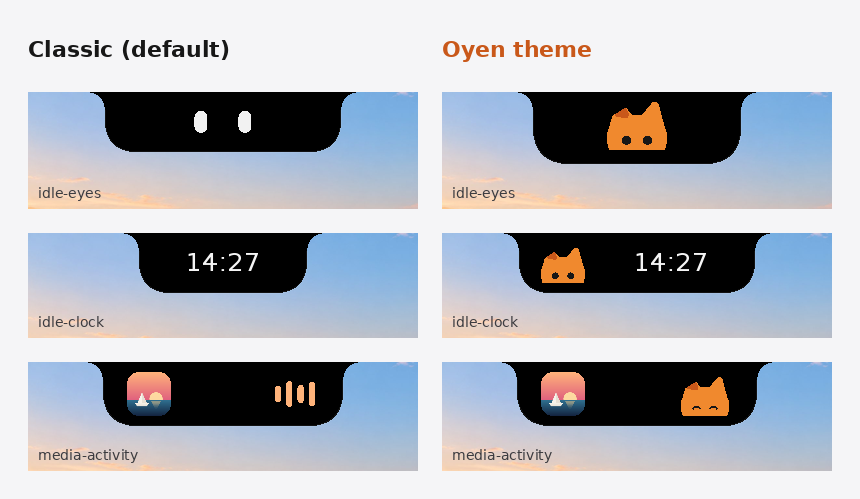
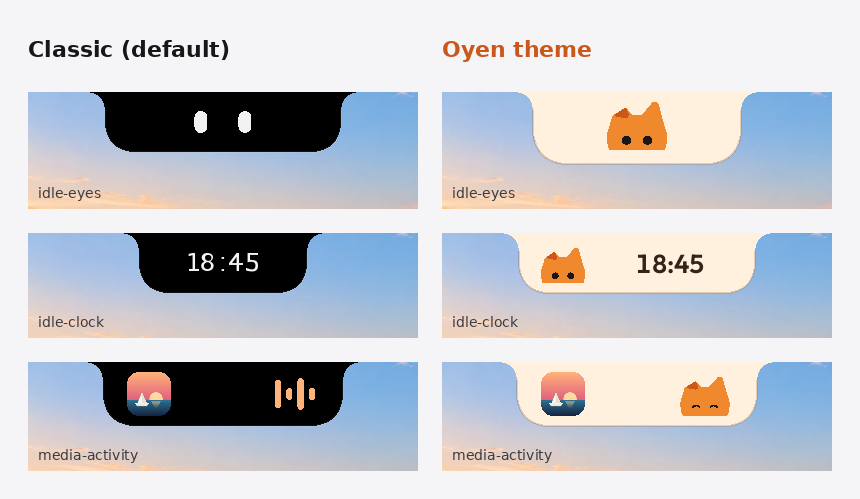
README: the Oyen theme picture shows the current look (#23)
The README's Oyen theme picture and paragraph now show the 0.1.7 look (cream island, Oyen's orange, Outfit), retaken from the 0.1.9 release build with the same layout.

diff --git a/README.md b/README.md
@@ -55,14 +55,14 @@ Native Rust, no web view, no runtime, around 1.7 MB, and **zero CPU while nothin
 
 ### The Oyen theme
 
-The island stays black by default. Switch on the Oyen theme (the gear › **Theme › Oyen**, or right-click › **Theme › Oyen**) and Oyen, the Oyenza cat, moves in: he peeks over the island's edge while it rests, watches your pointer when it comes near, sits beside the clock and bobs along while music plays. He sleeps from midnight to five, and his orange becomes the accent colour. He is drawn from the Oyenza logo, not a picture, so he stays sharp at any scaling, and he only moves for a moment now and then, so the app still uses no CPU at rest.
+The island stays black by default. Switch on the Oyen theme (the gear › **Theme › Oyen**, or right-click › **Theme › Oyen**) and the whole island becomes Oyen's: warm cream with dark brown text, his orange on the play button, the bars and the switches, and Outfit, the Oyen Poni typeface. Oyen, the Oyenza cat, moves in too: he peeks over the island's edge while it rests, watches your pointer when it comes near, sits beside the clock, peeks up beside the pin when the island is open and bobs along while music plays. He sleeps from midnight to five. He is drawn from the Oyenza logo, not a picture, so he stays sharp at any scaling, and he only moves for a moment now and then, so the app still uses no CPU at rest.
 
 ![Classic and the Oyen theme side by side: resting, with the clock, and playing music](docs/screenshots/oyen-theme.png)
 
 The gear at the top right of the open island opens **Settings**: your Oyenza account first, then the theme, the idle look and the switches below. Right-click the island or the tray icon for every option:
 - the theme: Classic or Oyen
 - the idle look: clock, eyes (Oyen in his theme), minimal, or hidden until you hover
-- lyrics, clipboard history and sounds
+- lyrics (and the pronunciation line under Japanese, Korean and Chinese lyrics), clipboard history and sounds
 - hide in full-screen apps
 - start with Windows, and quit
 
